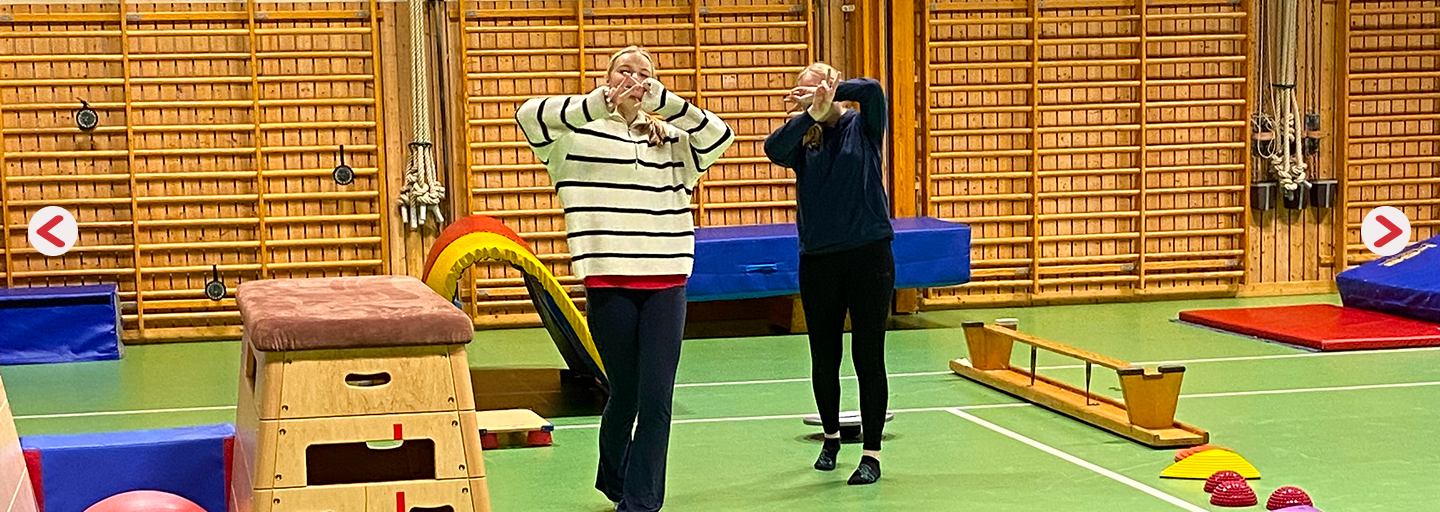
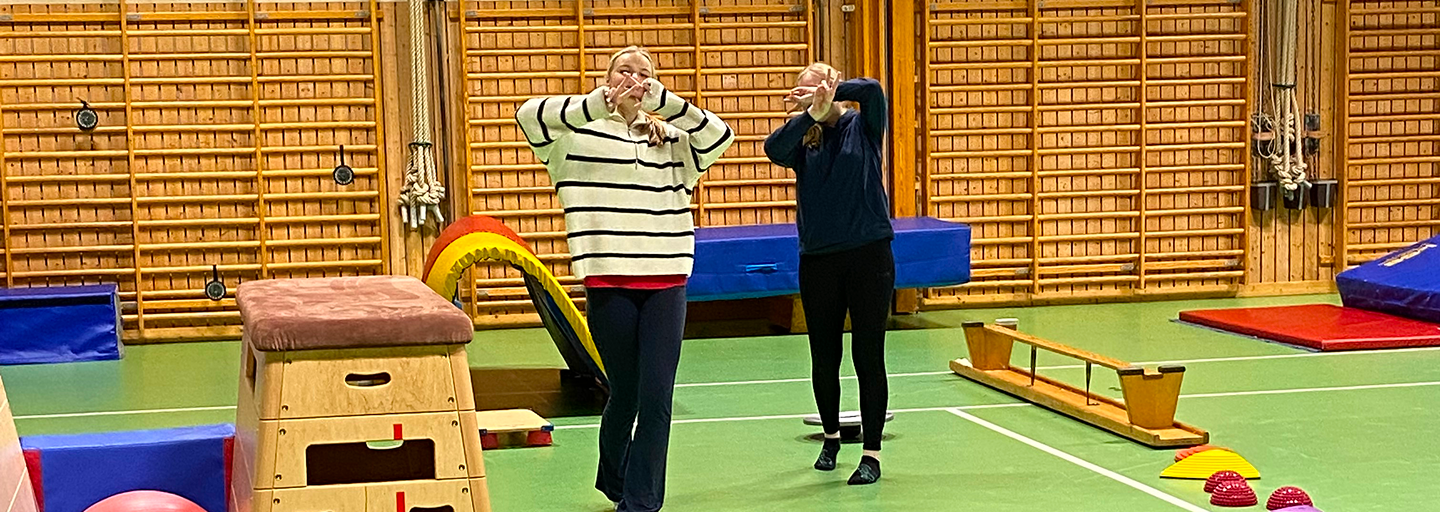
fixed small stuff

Changed region(s): [[0.9375, 0.4062, 1.0, 0.5], [0.0, 0.4062, 0.0625, 0.5]]

diff --git a/css/common.css b/css/common.css
@@ -165,7 +165,7 @@ button {
    MOBILE
  */
 
-@media (max-width: 700px) {
+@media (max-width: 1000px) {
 
     .main-navigation {
         height: auto;

diff --git a/index.html b/index.html
@@ -112,7 +112,9 @@
     </header>
 
     <main id="app"></main>
-
+<footer>
+    
+</footer>
 </body>
 
 </html>
